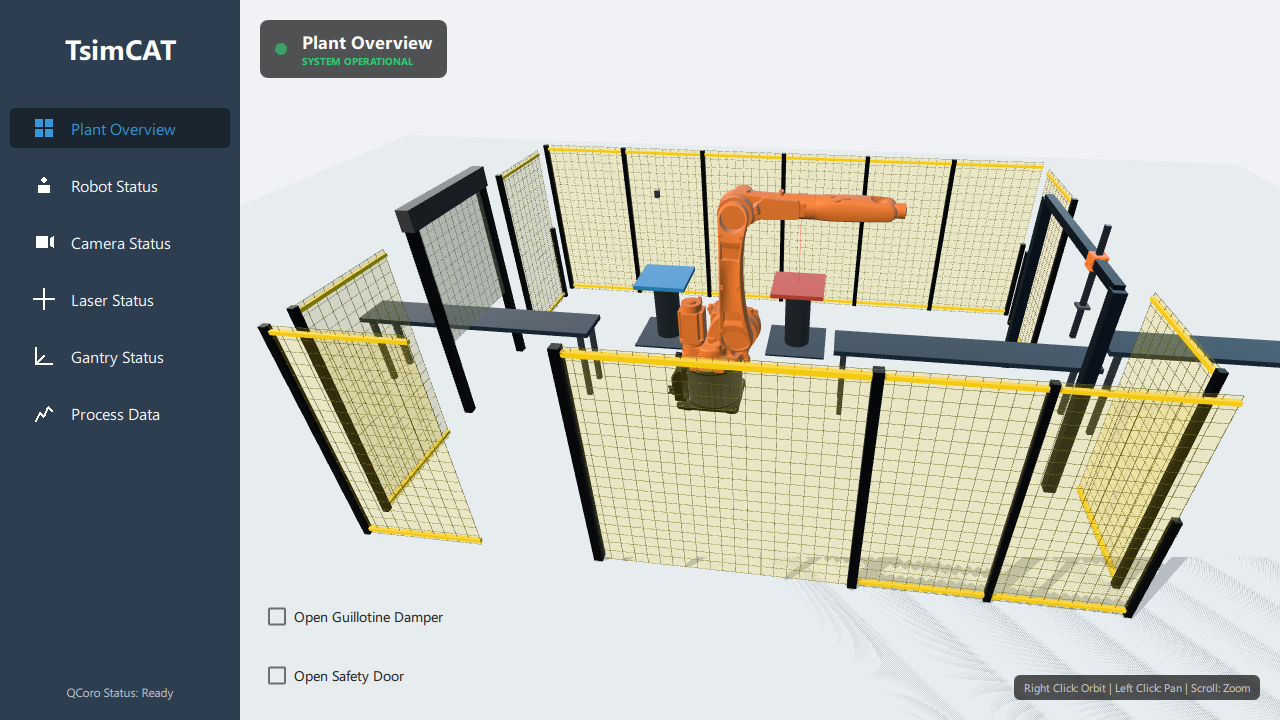
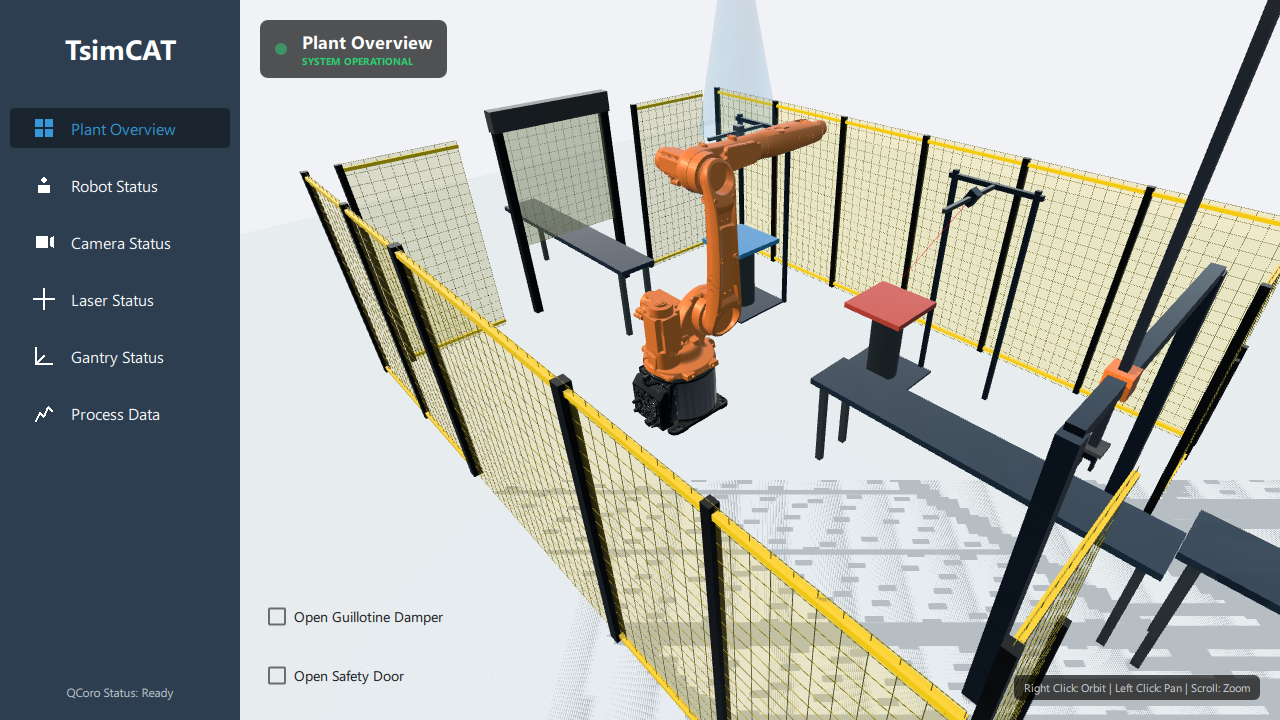
cone

diff --git a/src/TsimCAT/UI/controls/GantryModel.qml b/src/TsimCAT/UI/controls/GantryModel.qml
@@ -44,20 +44,70 @@ Node {
             materials: [ PrincipledMaterial { baseColor: axisColor } ]
         }
 
-        // Z Axis
+        // Z Axis Rod
         Model {
-            position: Qt.vector3d(0, -gantryRoot.zPos / 2, 0)
+            id: zRod
+            // Make rod longer (2000mm) so it stays inside carriage even when extended
+            // When zPos=0, we want tip flush with carriage bottom.
+            // Carriage bottom is at 0 (local). Rod length 2000. Center 0 means -1000 to +1000.
+            // If we want tip at 0, center needs to be +1000? No, that would be 0 to 2000 (sticking up).
+            // We want it to stick DOWN.
+            // But if it extends down, it must have length "stored" above.
+            // Let's say zPos is extension distance downwards.
+            // zPos=0: Tip at 0. Top at +2000.
+            // zPos=1000: Tip at -1000. Top at +1000.
+            // Rod moves DOWN by zPos.
+            // So position.y = 1000 - zPos.
+            // Wait, coordinate system: +Y is Up.
+            // Carriage is at Y=2000 (global).
+            // Local 0 is at Carriage center.
+            // Rod Center at Y=1000 - zPos.
+            // Tip is at (1000 - zPos) - 1000 = -zPos.
+            // Top is at (1000 - zPos) + 1000 = 2000 - zPos.
+            // This works!
+            
+            position: Qt.vector3d(0, 1000 - gantryRoot.zPos, 0)
             source: "#Cube"
-            scale: Qt.vector3d(0.4, 10, 0.4)
+            scale: Qt.vector3d(0.4, 20, 0.4) // 2000mm long
             materials: [ PrincipledMaterial { baseColor: "#bdc3c7"; metalness: 1.0 } ]
         }
 
-        // Simple Gripper placeholder
-        Model {
+        // INDUSTRIAL GRIPPER (At the very tip of the Z Rod)
+        Node {
+            // Rod tip is at -zPos.
             position: Qt.vector3d(0, -gantryRoot.zPos, 0)
-            source: "#Cube"
-            scale: Qt.vector3d(1, 0.2, 1)
-            materials: [ PrincipledMaterial { baseColor: "#333" } ]
+            
+            // Mounting Plate
+            Model {
+                position: Qt.vector3d(0, 10, 0)
+                source: "#Cube"
+                scale: Qt.vector3d(1.2, 0.2, 1.2)
+                materials: [ PrincipledMaterial { baseColor: "#333" } ]
+            }
+            
+            // Actuator Body
+            Model {
+                position: Qt.vector3d(0, -25, 0)
+                source: "#Cube"
+                scale: Qt.vector3d(0.8, 0.5, 0.8)
+                materials: [ PrincipledMaterial { baseColor: "#2c3e50"; metalness: 0.9 } ]
+            }
+            
+            // Left Finger
+            Model {
+                position: Qt.vector3d(-30, -75, 0)
+                source: "#Cube"
+                scale: Qt.vector3d(0.15, 1, 0.4)
+                materials: [ PrincipledMaterial { baseColor: "#7f8c8d"; metalness: 1.0 } ]
+            }
+            
+            // Right Finger
+            Model {
+                position: Qt.vector3d(30, -75, 0)
+                source: "#Cube"
+                scale: Qt.vector3d(0.15, 1, 0.4)
+                materials: [ PrincipledMaterial { baseColor: "#7f8c8d"; metalness: 1.0 } ]
+            }
         }
     }
 }

diff --git a/src/TsimCAT/UI/controls/CameraModel.qml b/src/TsimCAT/UI/controls/CameraModel.qml
@@ -18,6 +18,7 @@ Node {
 
     // Lens
     Model {
+        id: lens
         position: Qt.vector3d(0, 0, 60)
         eulerRotation.x: 90
         source: "#Cylinder"
@@ -27,6 +28,22 @@ Node {
                 baseColor: "#000"
                 metalness: 1.0
                 roughness: 0.0
+            }
+        ]
+    }
+
+    // Inspection Cone (Field of View)
+    Model {
+        position: Qt.vector3d(0, 0, 2060)
+        eulerRotation.x: -90
+        source: "#Cone"
+        scale: Qt.vector3d(8, 20, 8)
+        materials: [
+            PrincipledMaterial {
+                baseColor: "#3498db"
+                opacity: 0.1
+                alphaMode: PrincipledMaterial.Blend
+                cullMode: PrincipledMaterial.NoCulling
             }
         ]
     }

diff --git a/README.md b/README.md
@@ -1,22 +1,50 @@
 # TsimCAT - Industrial Control Center
 
-TsimCAT is a modern industrial control and simulation interface built with **Qt 6.10.1**, **C++23**, **Asio**, and **QCoro**. It follows a strictly decoupled architecture, hiding complex driver implementations behind clean interfaces and a centralized factory.
+TsimCAT is a modern industrial control and simulation interface built with **Qt 6.10.1**, **C++23**, **Asio**, and **QCoro**. It follows a strictly decoupled architecture, hiding complex driver implementations behind clean interfaces and a centralized factory. The application features a high-fidelity **3D Digital Twin** of an industrial manufacturing cell, built entirely with **QtQuick3D**.
 
 ## 🚀 Key Features
 - **Modern UI**: Material Design 16:9 responsive layout with procedural graphics.
-- **3D Digital Twin**: Real-time robot visualization using **QtQuick3D**.
-    - Integrated 6-axis kinematic chain with mesh-based rendering.
-    - Custom CAD-style camera controls (Right-click Orbit, Left-click Pan, Scroll Zoom).
+- **3D Digital Twin**: High-performance, real-time visualization of a complete industrial plant.
+    - **6-Axis Robot**: Kinematically accurate simulation with real-time joint feedback.
+    - **Interactive Plant**: Includes conveyors, gantry systems, and processing stations.
+    - **Safety Systems**: Visualized safety fencing with interactive doors and dampers.
 - **Advanced Architecture**: 
     - **Composition Root**: A thin `Backend` wrapper managing specialized domain `Controllers`.
-    - **Interface-Driven Drivers**: Drivers (ADS, TCP, OPC UA) are hidden behind a `LinkFactory`. No driver-specific headers (Asio, AdsLib) leak into the rest of the project.
+    - **Interface-Driven Drivers**: Drivers (ADS, TCP, OPC UA) are hidden behind a `LinkFactory`.
 - **Sophisticated Logging**:
     - Thread-safe `core::logger` module with console (ANSI colors) and file output.
-    - Automated directory structure (`logs/`).
-    - Uses `format_utils` for type-safe, compile-time/runtime formatting and `std::source_location` for automatic call-site tracking.
 - **Diagnostics**:
-    - Real-time TCP server status and message logging.
-    - Integrated UI screenshot capability for debugging purposes.
+    - Real-time connectivity status and integrated UI screenshot capability.
+
+## 🎨 UI & 3D Visualization
+
+The user interface is powered by **QtQuick 3D**, moving beyond static dashboards to provide a fully immersive operational view.
+
+### 🏭 Plant Overview (`Plant3DView`)
+A comprehensive digital twin of the manufacturing cell, featuring:
+*   **Conveyor System**: A dual-belt setup simulating material flow.
+    *   **Entry Conveyor**: Transports parts into the cell, passing through a safety-interlocked **Guillotine Damper**.
+    *   **Exit Conveyor**: Moves processed parts out of the cell to a higher-level neighbor belt.
+*   **Processing Stations**:
+    *   **Analysis Station**: Features a frame-mounted camera with a visualized **Field of View (FOV)** cone.
+    *   **Laser Station**: Equipped with a 30° tilted laser head and visible beam for part marking.
+*   **Transfer Gantry**: A 2-axis (Y/Z) linear robot with a detailed **Industrial Gripper**, bridging the cell's exit to the neighbor's logistics.
+*   **Safety Perimeter**: A modular **Chain-Link Fence** system (procedurally textured) ensuring operator safety, complete with:
+    *   **Double Safety Door**: Animated swinging doors with "soft-stop" mechanics.
+    *   **Safety Interlocks**: Visual feedback for open/closed states.
+
+### 🤖 Robot Control (`Robot3DView`)
+A focused, detailed view of the 6-axis industrial manipulator.
+*   **Kinematics**: Joint angles are bound directly to the C++ backend simulation.
+*   **Visualization**: High-fidelity mesh rendering with PBR materials (PrincipledMaterial) for realistic metal and paint finishes.
+*   **Navigation**: CAD-style camera controls (Orbit, Pan, Zoom) allow operators to inspect the robot from any angle.
+
+### 🛠 reusable 3D Components
+The 3D scene is built from modular, reusable QML components found in `src/TsimCAT/UI/controls/`:
+*   `RobotModel.qml`: The core 6-axis kinematic chain.
+*   `GantryModel.qml`: Parametric 2-axis gantry with Z-rod and gripper.
+*   `FenceModel.qml`: Procedurally generated wire-mesh fence with door/damper logic.
+*   `CameraModel.qml` / `LaserModel.qml`: Sensor and tool heads with mounting frames.
 
 ## 📁 Project Structure
 ```text
@@ -27,18 +55,15 @@ TsimCAT/
 │   ├── app/              # Entry point (main.cpp)
 │   └── TsimCAT/
 │       ├── Core/         # [Logic] Pure C++23 Domain Layer (Qt-Independent)
-│       │   ├── Common/   # Shared types (Result, etc.)
-│       │   ├── Coroutines/ # Custom Task system
-│       │   ├── Logger/   # Advanced logging framework
-│       │   ├── Link/     # Communication abstraction
-│       │   └── Simulators/ # Domain simulation (Robot, Laser)
+│       │   ├── Link/     # Communication abstraction (ADS, TCP)
+│       │   └── Simulators/ # Domain simulation logic (Robot kinematics)
 │       ├── Backend/      # [Glue] Qt/C++ Bridge
 │       │   ├── Backend.h # Composition Root
 │       │   └── Controllers/ # Feature-specific logic (e.g., RobotController)
 │       └── UI/           # [View] QML Frontend
-│           ├── assets/   # 3D Meshes and icons
-│           ├── controls/ # Reusable UI components (Robot3DView)
-│           └── subscreens/ # Full-page views
+│           ├── assets/   # 3D Meshes (.mesh)
+│           ├── controls/ # 3D Components (RobotModel, FenceModel, etc.)
+│           └── subscreens/ # Full-page views (PlantOverview, RobotStatus)
 ```
 
 ## 🛠 Prerequisites & Build
@@ -53,7 +78,7 @@ cmake --build --preset debug
 ```
 
 ### ⚠️ Running (Critical DLL Order)
-To avoid "Entry Point Not Found" errors, the **Compiler's bin directory must be prioritized** over Qt's bin directory in the PATH to ensure the correct `libstdc++` version is loaded:
+To avoid "Entry Point Not Found" errors, the **Compiler's bin directory must be prioritized** over Qt's bin directory in the PATH:
 ```powershell
 $env:PATH = "C:\Users\Dev.Windows-Desktop\AppData\Local\mingw64\bin;D:\Qt\6.10.1\mingw_64\bin;" + $env:PATH
 .\build\debug\appTsimCAT.exe
@@ -72,12 +97,13 @@ if (auto* server = link->asServer()) {
 ```
 
 ### 3D Kinematics
-The 3D robot visualization uses a nested `Node` structure to represent a standard 6-axis kinematic chain. The `Robot3DView.qml` component maps joint angles directly to these nodes, allowing the UI to reflect the simulated robot state in real-time.
+The robot visualization uses a nested `Node` structure to represent a standard 6-axis kinematic chain. The `RobotModel.qml` component maps joint angles from the C++ `RobotController` directly to these nodes, enabling real-time, jitter-free visualization of the machine state.
 
 ## 📌 Development Status
-- [x] **3D Digital Twin**: Implemented 6-axis robot visualization with custom camera navigation.
+- [x] **3D Digital Twin**: Full plant layout with Robot, Gantry, Conveyors, and Stations.
+- [x] **Safety Systems**: Interactive fencing, doors, and dampers.
 - [x] **Namespace Cleanup**: Standardized on `core::` and `backend::`.
-- [x] **Encapsulation**: Driver dependencies (`asio`, `ads`, `open62541`) are now **PRIVATE** to the link module.
-- [x] **TCP Robustness**: Fixed socket reuse, disconnect detection (EOF handling), and `NO_TIMEOUT` logic.
+- [x] **Encapsulation**: Driver dependencies (`asio`, `ads`, `open62541`) are **PRIVATE**.
+- [x] **TCP Robustness**: Fixed socket reuse and disconnect detection.
 - [x] **Logging**: Implemented folder-based logging with source tracking.
-- [x] **Screenshots**: UI capture logic implemented.
+- [x] **Screenshots**: Integrated UI capture logic.